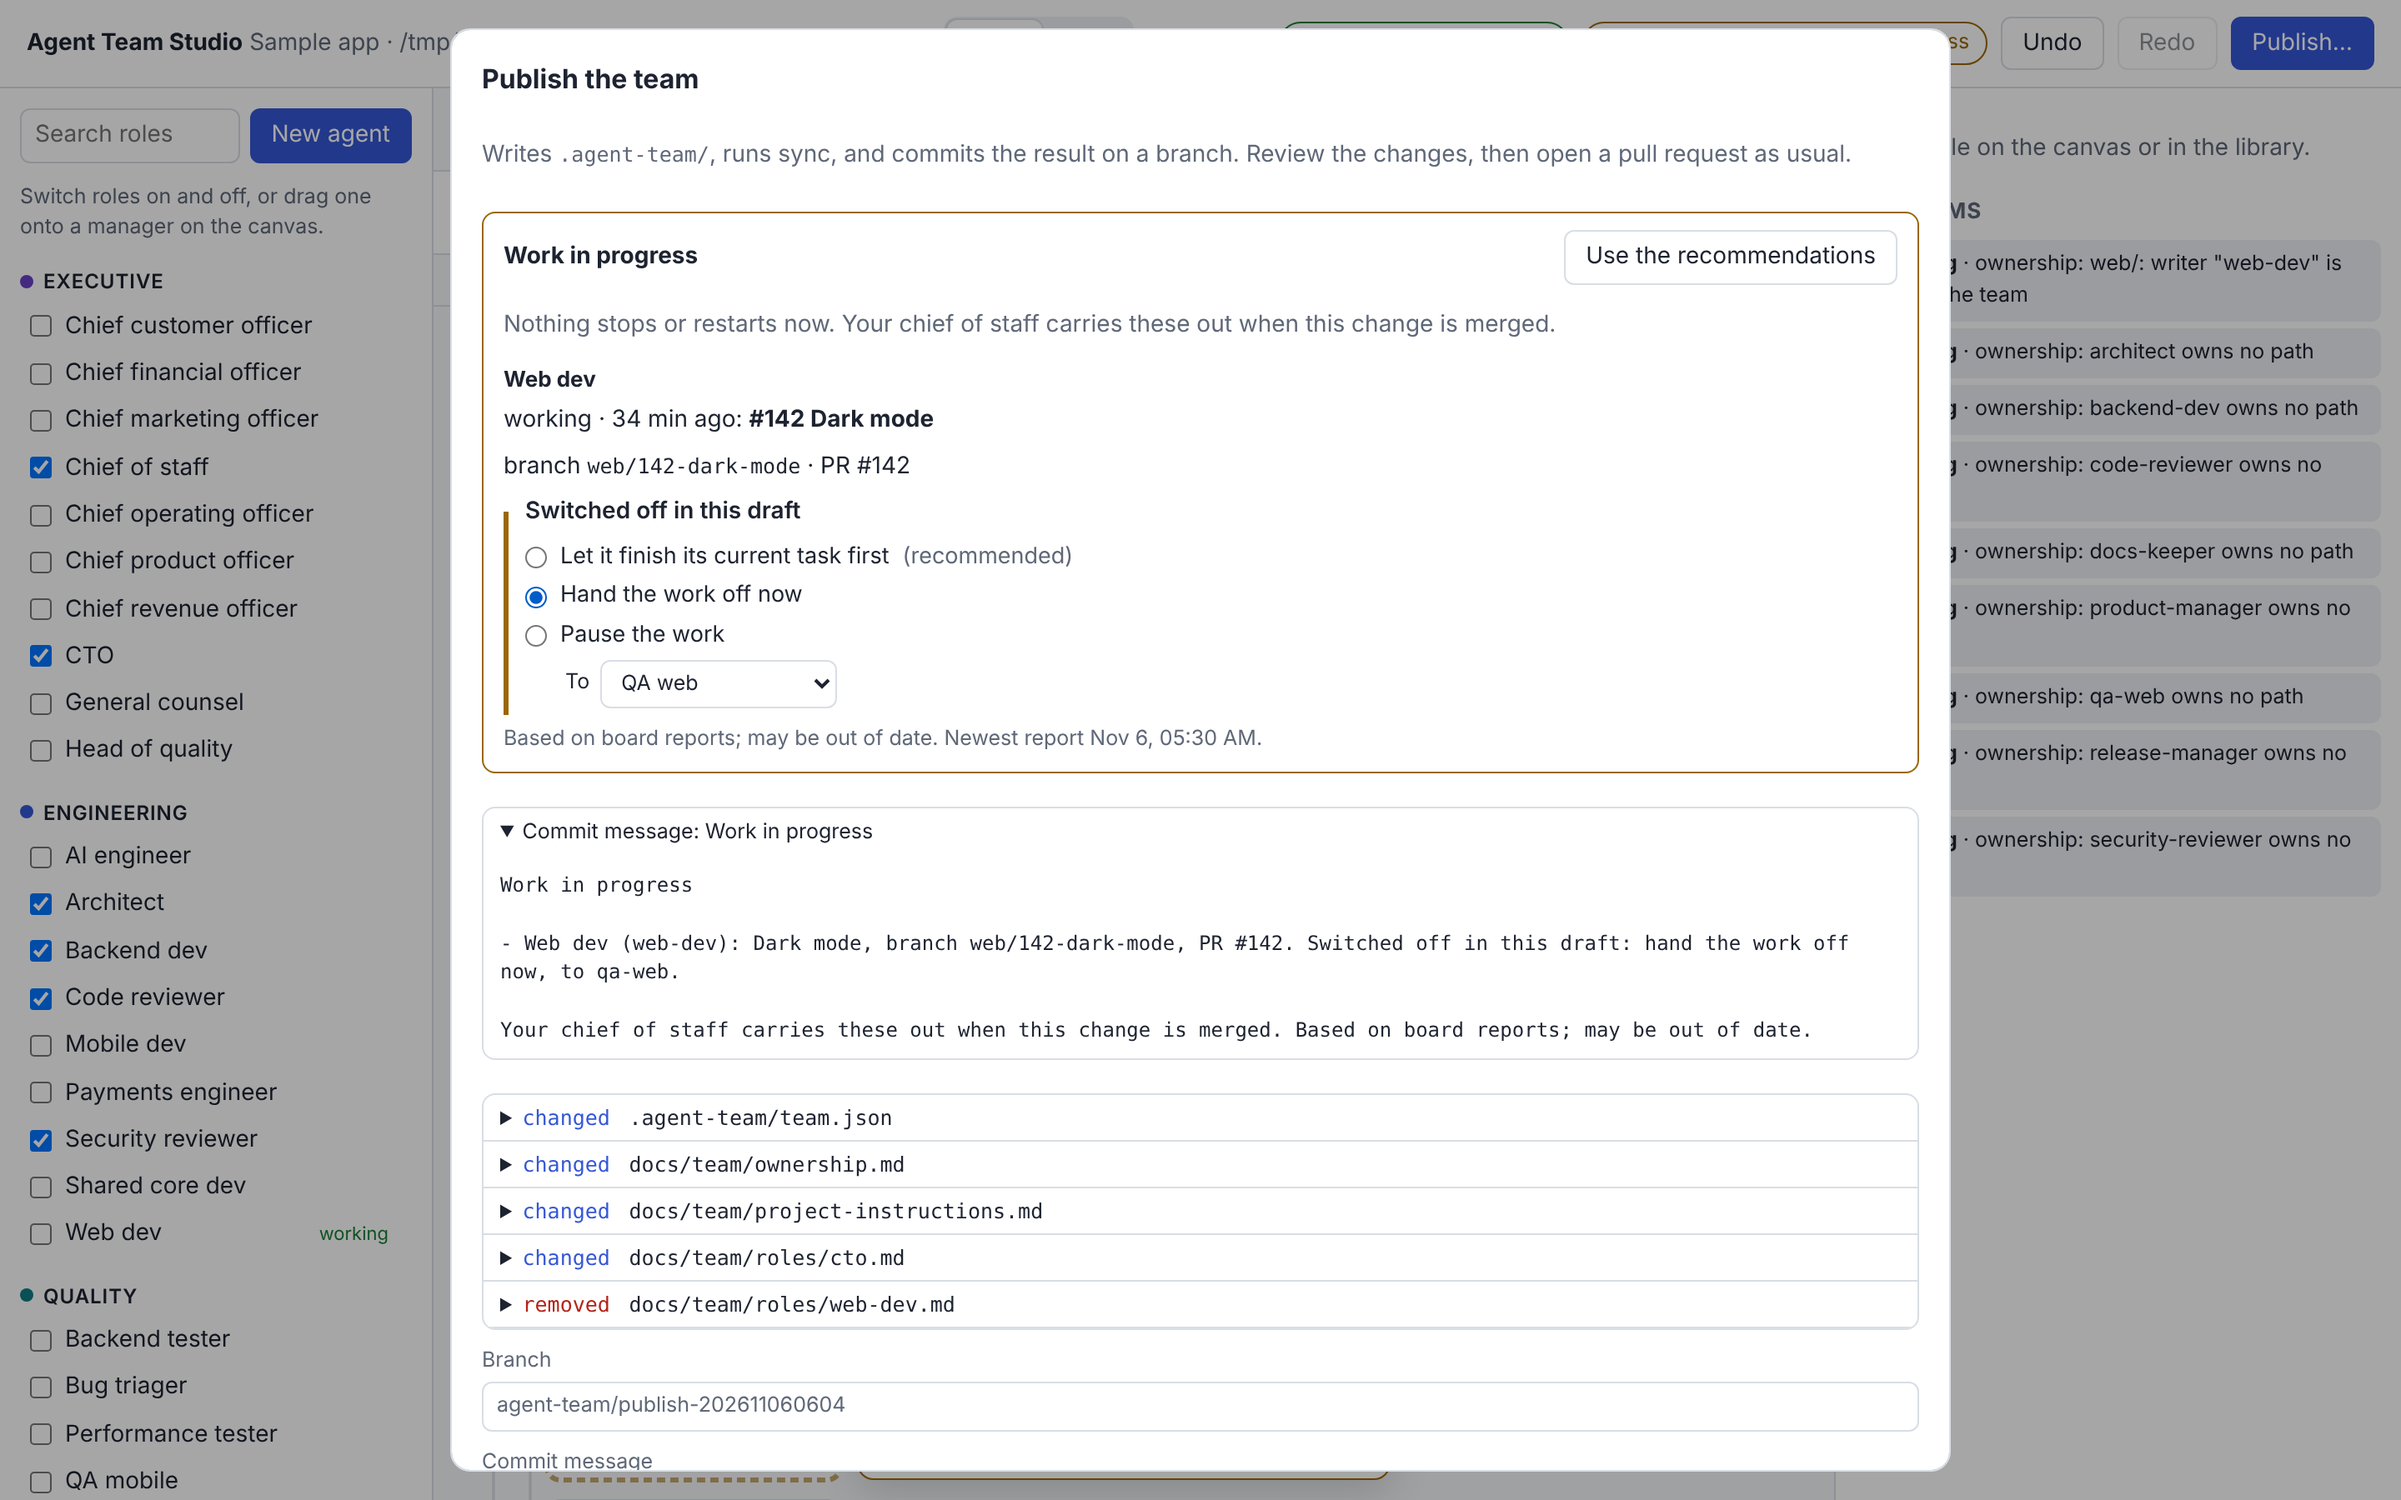
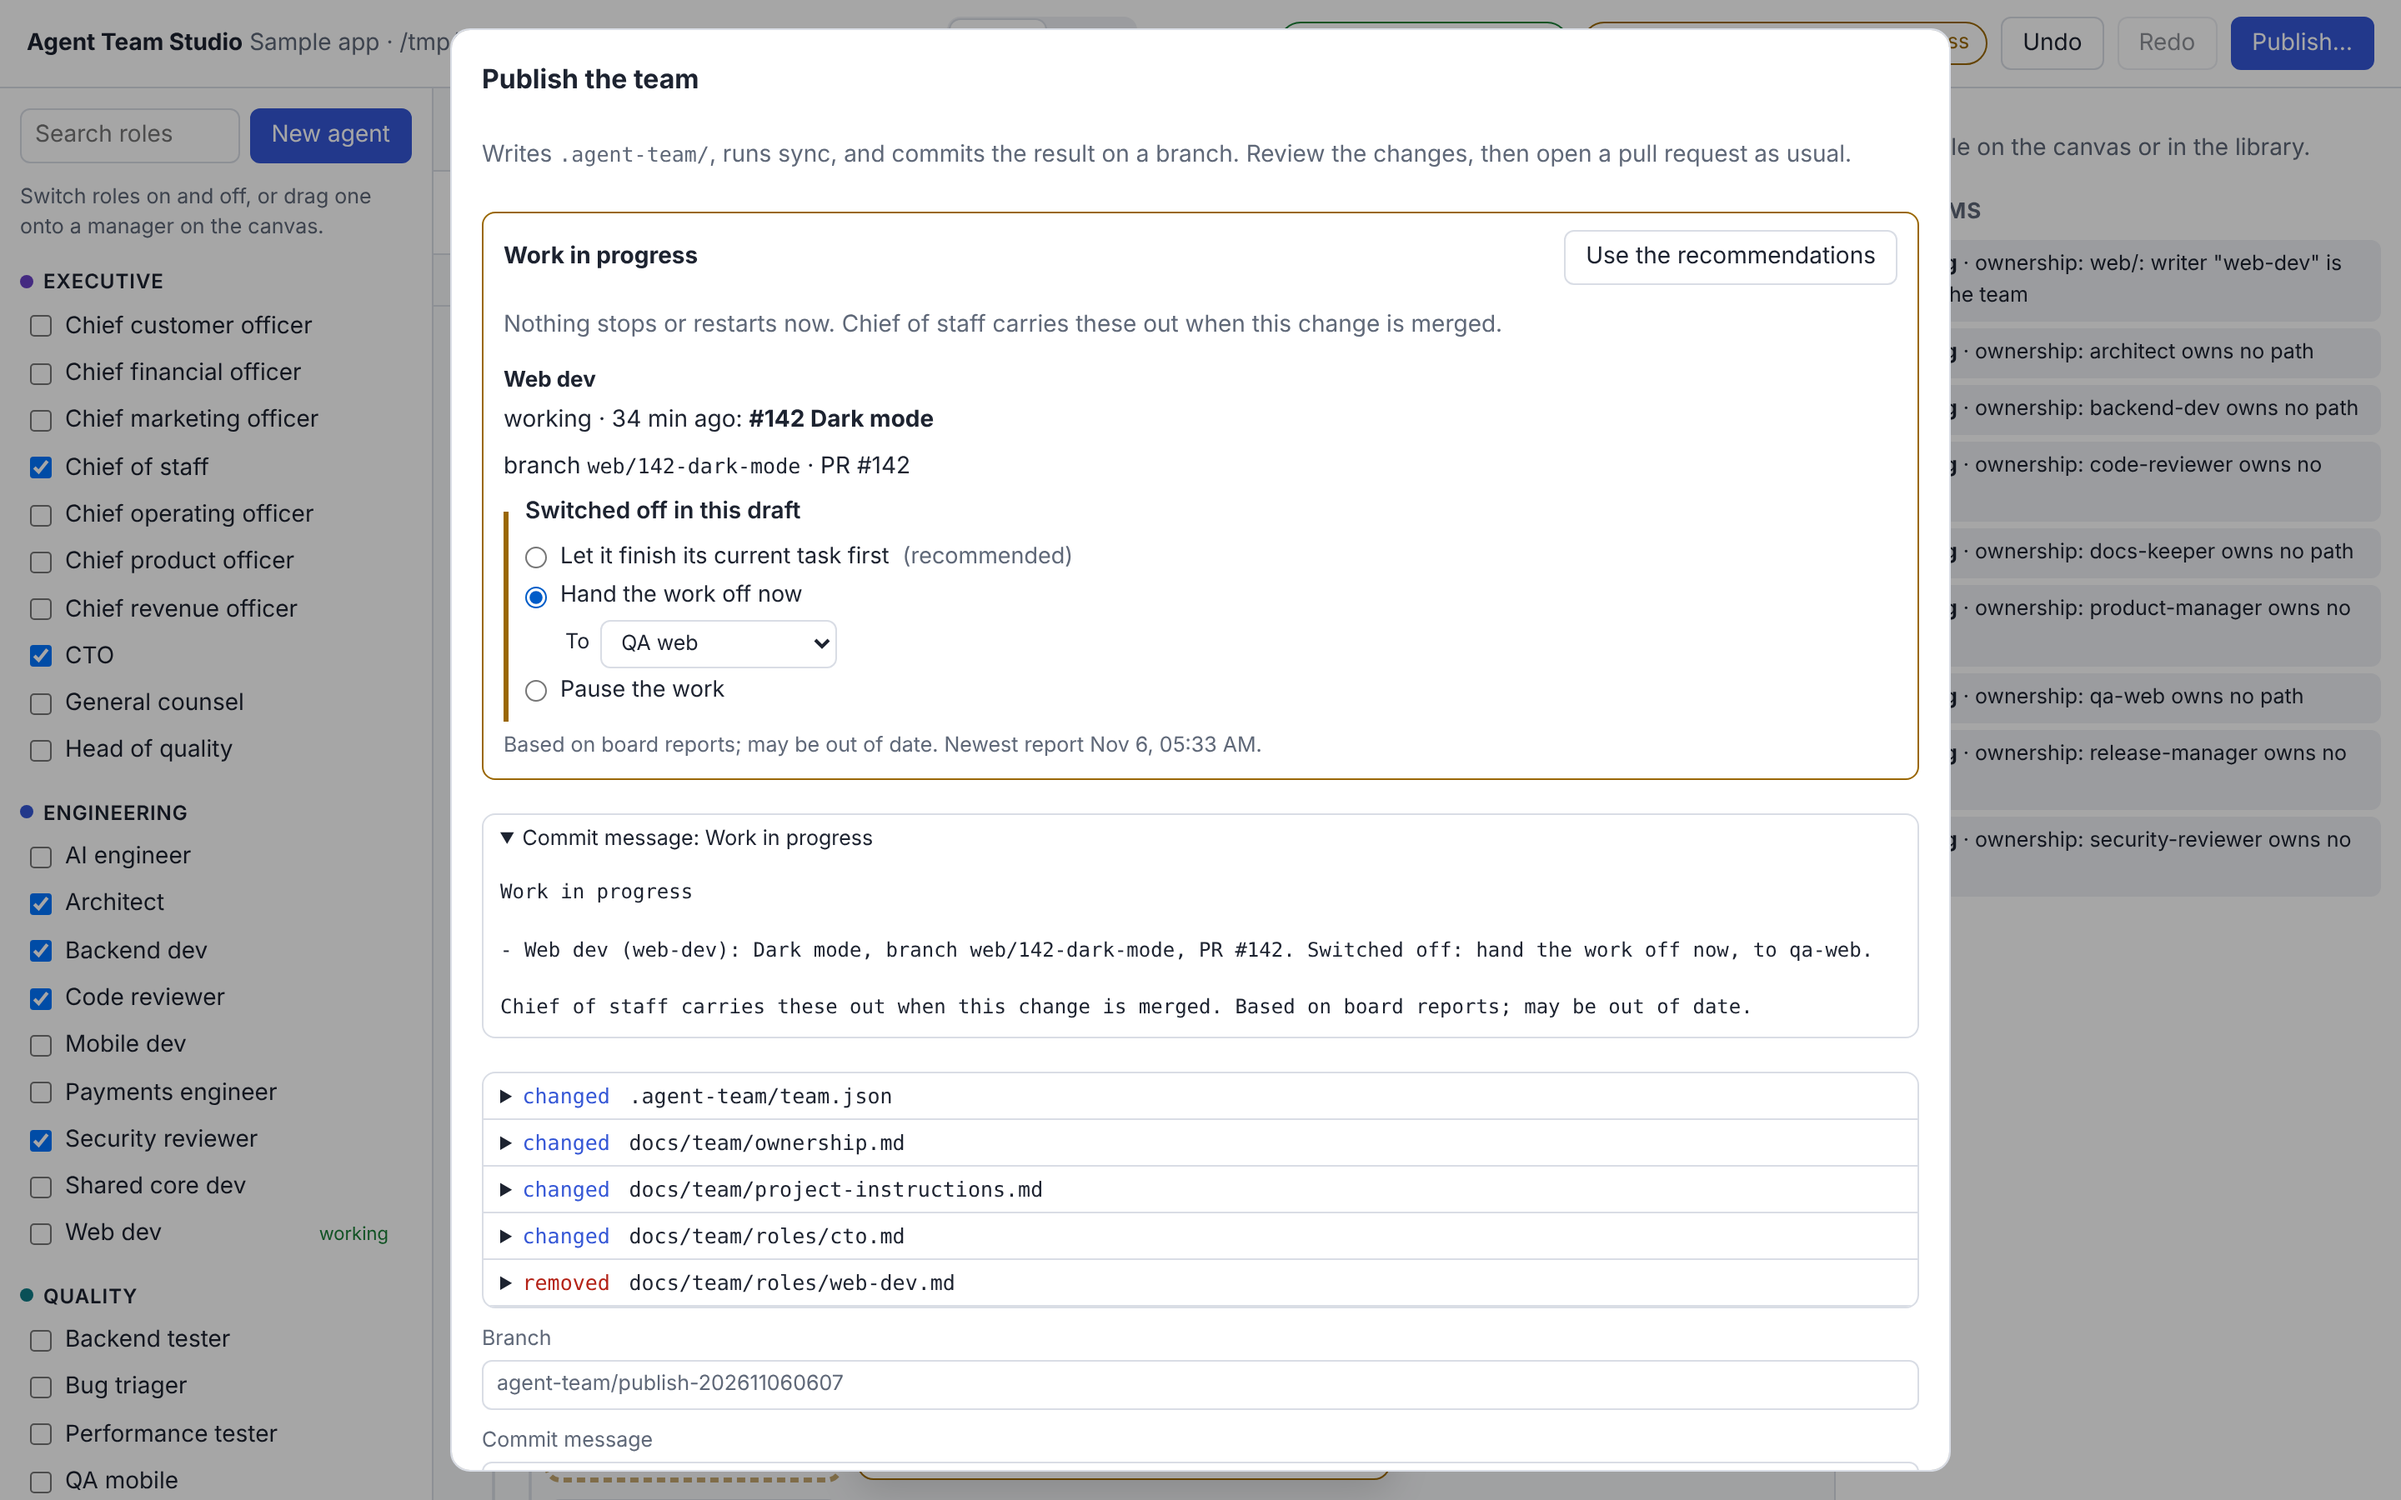
Impact step: target under its choice, published wording in the plan, the dispatching role by name; a deferred move survives a reload (CPO and code review)
Claude-Session: https://claude.ai/code/session_01CtT1rLNW9YJYwkYiXvhcVj

diff --git a/apps/studio/public/safety.js b/apps/studio/public/safety.js
@@ -236,7 +236,7 @@ export function recommendations(items, spec, on) {
 const needsTarget = (choice) => choice === 'handoff' || choice === 'move-and-handover';
 
 /** The impact step's HTML. `picks` maps item id to { choice, target }; `on` lists the roles on in the draft. */
-export function impactHtml({ items, picks, on, titleOf, board, newest, spec, roles }) {
+export function impactHtml({ items, picks, on, titleOf, board, newest, spec, roles, dispatcher = '' }) {
   const asks = items.filter((i) => i.severity !== 'safe');
   const safe = items.filter((i) => i.severity === 'safe');
   if (!asks.length && !safe.length) return '';
@@ -247,14 +247,13 @@ export function impactHtml({ items, picks, on, titleOf, board, newest, spec, rol
   const itemHtml = (i) => {
     const p = picks.get(i.id) ?? { choice: i.recommended, target: '' };
     return `<fieldset class="impact-item" data-item="${esc(i.id)}"><legend>${esc(reasonOf(i).replace(/^./, (c) => c.toUpperCase()))}</legend>
-      ${i.choices.map((c) => `<label class="choice"><input type="radio" name="pick-${esc(i.id)}" value="${esc(c)}" data-pick="${esc(i.id)}"${c === p.choice ? ' checked' : ''}> ${esc(choiceLabel(c, i))}${c === i.recommended ? ' <span class="muted">(recommended)</span>' : ''}</label>`).join('')}
-      ${needsTarget(p.choice) ? targetSelect(i, p) : ''}
+      ${i.choices.map((c) => `<label class="choice"><input type="radio" name="pick-${esc(i.id)}" value="${esc(c)}" data-pick="${esc(i.id)}"${c === p.choice ? ' checked' : ''}> ${esc(choiceLabel(c, i))}${c === i.recommended ? ' <span class="muted">(recommended)</span>' : ''}</label>${c === p.choice && needsTarget(c) ? targetSelect(i, p) : ''}`).join('')}
       ${p.choice === 'move-after-merge' ? '<p class="hint">The published files keep the current writer until you publish again after that. The checks panel reminds you.</p>' : ''}
     </fieldset>`;
   };
   return `<section class="impact" aria-labelledby="impact-title">
     <div class="row impact-head"><h3 id="impact-title">Work in progress</h3>${asks.length ? '<button type="button" id="impact-recommend">Use the recommendations</button>' : ''}</div>
-    ${asks.length ? `<p class="muted">Nothing stops or restarts now. Your chief of staff carries these out when this change is merged.</p>` : ''}
+    ${asks.length ? `<p class="muted">Nothing stops or restarts now. ${esc(carriedBy(dispatcher))}</p>` : ''}
     ${[...groups].map(([slug, list]) => `<div class="impact-role"><h4>${esc(titleOf(slug))}</h4><ul class="plain">${inFlightList(rowOf(board, slug), spec, roles, slug).map((l) => `<li>${l}</li>`).join('')}</ul>${list.map(itemHtml).join('')}</div>`).join('')}
     ${safe.length ? `<details class="impact-safe"${asks.length ? '' : ' open'}><summary>Applies at each role's next task (${safe.length})</summary><ul>${safe.map((i) => `<li>${esc(i.detail)}</li>`).join('')}</ul></details>` : ''}
     <p class="hint">${esc(staleNote(newest))}</p>
@@ -262,16 +261,27 @@ export function impactHtml({ items, picks, on, titleOf, board, newest, spec, rol
 }
 
 /** The plan for the commit message (criterion 9): one line per item that asked for a choice. '' when there is none. */
-export function planText(items, picks, titleOf) {
+/** Who carries the plan out: the role that takes the owner's requests when the team has one (CPO copy review of #103). */
+export const carriedBy = (dispatcher) => `${dispatcher ? `${dispatcher.replace(/^./, (c) => c.toUpperCase())} carries` : 'The team carries'} these out when this change is merged.`;
+
+/** The reason as it reads once published (no "in this draft"): "Switched off", "Area web/ moved from a to b". */
+export function doneReason(item) {
+  if (item.kind === 'path-moved' || item.kind === 'path-removed') return `Area ${item.detail.replace(/ moves /, ' moved ').replace(/ no longer has /, ' no longer has ')}`;
+  return ({
+    'role-off': 'Switched off', 'role-removed': 'Removed', 'role-dormant': 'Made dormant', brief: 'Rules changed', tier: 'Tier changed',
+    'reports-to': 'Reports elsewhere', 'binding-removed': 'System removed', 'binding-narrowed': 'System access narrowed',
+  })[item.kind] ?? 'Changed';
+}
+
+export function planText(items, picks, titleOf, dispatcher = '') {
   const lines = items.filter((i) => i.severity !== 'safe').map((i) => {
     const p = picks.get(i.id) ?? { choice: i.recommended, target: '' };
     const w = i.inFlight;
     const work = w ? [w.task || 'current work', w.branch ? `branch ${w.branch}` : '', w.pr ? `PR #${w.pr}` : ''].filter(Boolean).join(', ') : 'current work';
-    // A path keeps its case: "Area web/ moves from ...", never "Web/".
-    const what = i.kind === 'path-moved' || i.kind === 'path-removed' ? `Area ${i.detail}` : reasonOf(i).replace(/^./, (c) => c.toUpperCase());
+    const what = doneReason(i);
     return `- ${titleOf(i.role)} (${i.role}): ${work}. ${what}: ${choiceLabel(p.choice, i).replace(/^./, (c) => c.toLowerCase())}${needsTarget(p.choice) && p.target ? `, to ${p.target}` : ''}.`;
   });
-  return lines.length ? `Work in progress\n\n${lines.join('\n')}\n\nYour chief of staff carries these out when this change is merged. Based on board reports; may be out of date.` : '';
+  return lines.length ? `Work in progress\n\n${lines.join('\n')}\n\n${carriedBy(dispatcher)} Based on board reports; may be out of date.` : '';
 }
 
 /**
@@ -284,8 +294,35 @@ export function publishable(draft, published, items, picks) {
   for (const i of items) {
     if (i.kind !== 'path-moved' || (picks.get(i.id)?.choice ?? i.recommended) !== 'move-after-merge' || i.severity === 'safe') continue;
     const path = i.id.split(':').slice(2).join(':');
-    deferred.push({ path, from: i.role, to: (draft.ownership?.rows ?? []).find((r) => r.path === path)?.writer ?? '', pr: i.inFlight?.pr ?? null });
+    deferred.push({ path, from: i.role, to: (draft.ownership?.rows ?? []).find((r) => r.path === path)?.writer ?? '', pr: i.inFlight?.pr ?? null, owns: ownsAround(draft, path) });
     revert(out, published, i);
   }
   return { spec: out, deferred };
+}
+
+const overlaps = (a, b) => { const n = (x) => x.replace(/\*+$/, ''); return n(a).startsWith(n(b)) || n(b).startsWith(n(a)); };
+
+/** Every custom brief's Owns lines that touch `path`, as the draft has them: { slug: [{ path, mode, note }] }. */
+function ownsAround(spec, path) {
+  const out = {};
+  for (const [slug, r] of Object.entries(spec.roles)) if (r.brief !== undefined) out[slug] = ownsPaths(r.brief).paths.filter((x) => overlaps(x.path, path));
+  return out;
+}
+
+/**
+ * Puts a deferred move back into a draft that was read from disk (after a reload or a restart, the draft is the
+ * published team, which keeps the old writer): the ownership row and the Owns lines the draft had when it was
+ * published. Code review of #103. Returns true when it changed the draft.
+ */
+export function reapplyFollowUp(spec, f) {
+  const row = (spec.ownership?.rows ?? []).find((r) => r.path === f.path);
+  if (!row || row.writer !== f.from || !spec.roles[f.to]) return false;
+  row.writer = f.to;
+  for (const [slug, lines] of Object.entries(f.owns ?? {})) {
+    const r = spec.roles[slug];
+    if (r?.brief === undefined) continue;
+    const now = ownsPaths(r.brief);
+    r.brief = setOwnsPaths(r.brief, [...now.paths.filter((x) => !overlaps(x.path, f.path)), ...lines], now.prose);
+  }
+  return true;
 }

diff --git a/apps/studio/public/app.js b/apps/studio/public/app.js
@@ -4,7 +4,7 @@ import { checkUpgrade, resolveSpec, setEnabled, setField, splitBrief, validate }
 import { createChat } from './chat.js';
 import { exportPack, imported, isCustom, openNewAgent, switchOnRefusal } from './agents.js';
 import { createAgentEditor } from './agent-editor.js';
-import { QUIET_S, assess, impactHtml, inFlightList, planText, popoverHtml, publishable, reasonOf, recommendations, revert, rowOf, staleNote, stateWord, taskOf } from './safety.js';
+import { QUIET_S, assess, impactHtml, reapplyFollowUp, inFlightList, planText, popoverHtml, publishable, reasonOf, recommendations, revert, rowOf, staleNote, stateWord, taskOf } from './safety.js';
 import { bind, renderAreas, renderChecks, renderSystemInspector, renderSystemsStrip, roleSystemsHtml, wireBindings } from './panels.js';
 
 const $ = (s) => document.querySelector(s);
@@ -752,13 +752,19 @@ const onRoles = () => view.team.map((r) => ({ slug: r.slug, title: r.title }));
 const roleTitle = (slug) => view.bySlug.get(slug)?.title ?? slug;
 
 /** The impact step and the commit message it adds (criteria 8 and 9). */
+/** The role that takes the owner's requests: the one that reports to the owner, when there is exactly one. */
+function dispatcher() {
+  const top = view.team.filter((r) => r.reportsTo === 'owner');
+  return top.length === 1 ? top[0].title.toLowerCase() : '';
+}
+
 function renderImpact() {
   const items = view.safety.on ? view.safety.items : [];
   for (const id of [...picks.keys()]) if (!items.some((i) => i.id === id)) picks.delete(id);
   const rec = recommendations(items, spec, onRoles());
   for (const [id, p] of rec) if (!picks.has(id)) picks.set(id, p);
-  $('#impact').innerHTML = impactHtml({ items, picks, on: onRoles(), titleOf: roleTitle, board, newest: view.safety.newest, spec, roles: view.team.map((x) => ({ slug: x.slug, md: x.md })) });
-  const plan = planText(items, picks, roleTitle);
+  $('#impact').innerHTML = impactHtml({ items, picks, on: onRoles(), titleOf: roleTitle, board, newest: view.safety.newest, spec, roles: view.team.map((x) => ({ slug: x.slug, md: x.md })), dispatcher: dispatcher() });
+  const plan = planText(items, picks, roleTitle, dispatcher());
   $('#plan').hidden = !plan;
   $('#plan').innerHTML = plan ? `<details open><summary>Commit message: Work in progress</summary><pre>${esc(plan)}</pre></details>` : '';
   return plan;
@@ -863,6 +869,8 @@ async function start() {
   spec = S.spec;
   published = structuredClone(S.spec);
   loadFollowUps();
+  // A move published to happen after its open work merges lives on in the draft, even across a reload or a restart.
+  for (const f of followUps) reapplyFollowUp(spec, f);
   wireImpact();
   loadBoard();
   try { new EventSource('/v1/team/board/stream').addEventListener('changed', loadBoard); } catch { /* no stream: the first read stands */ }
